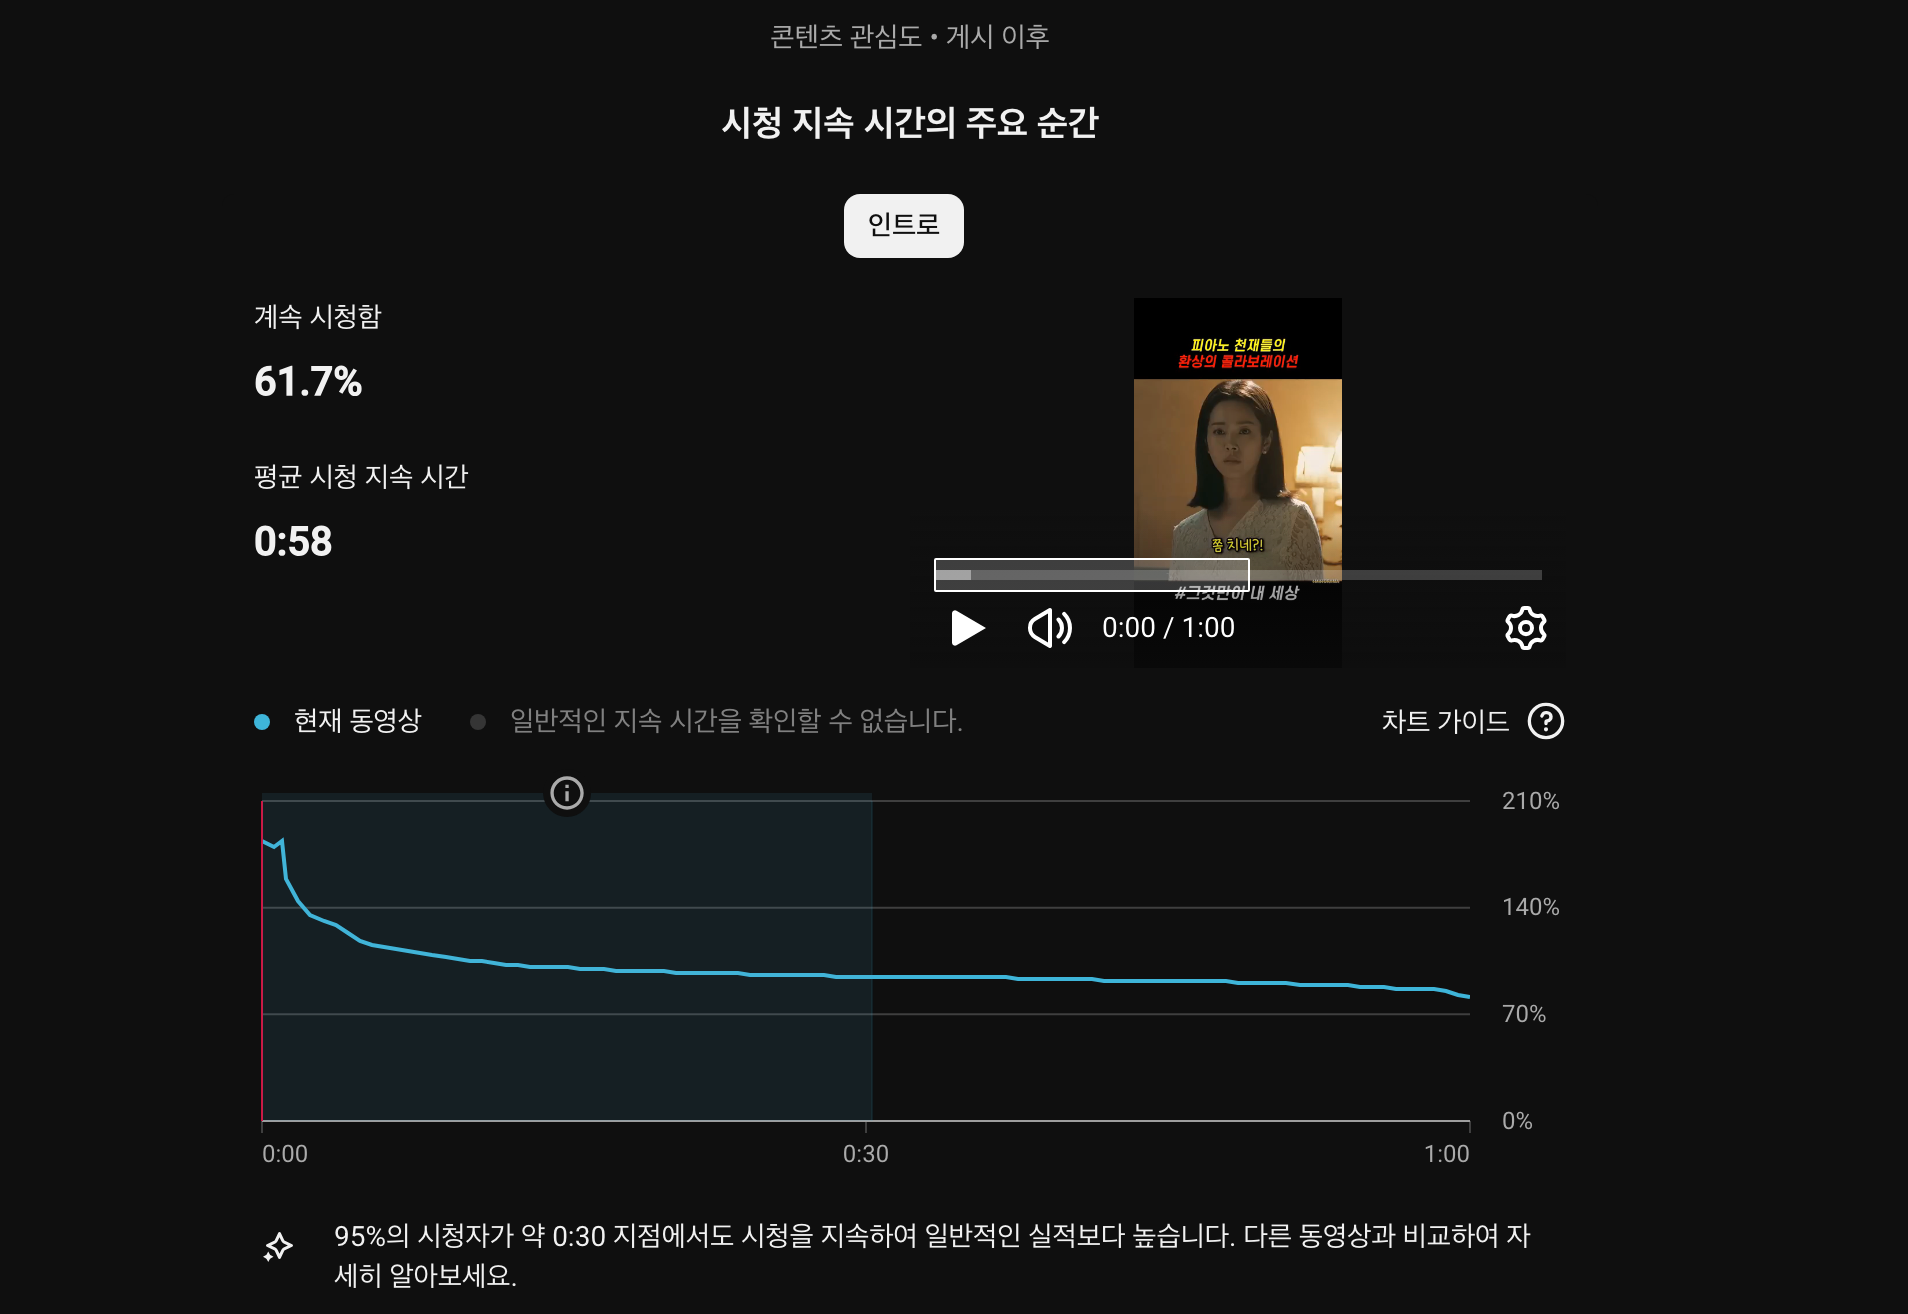
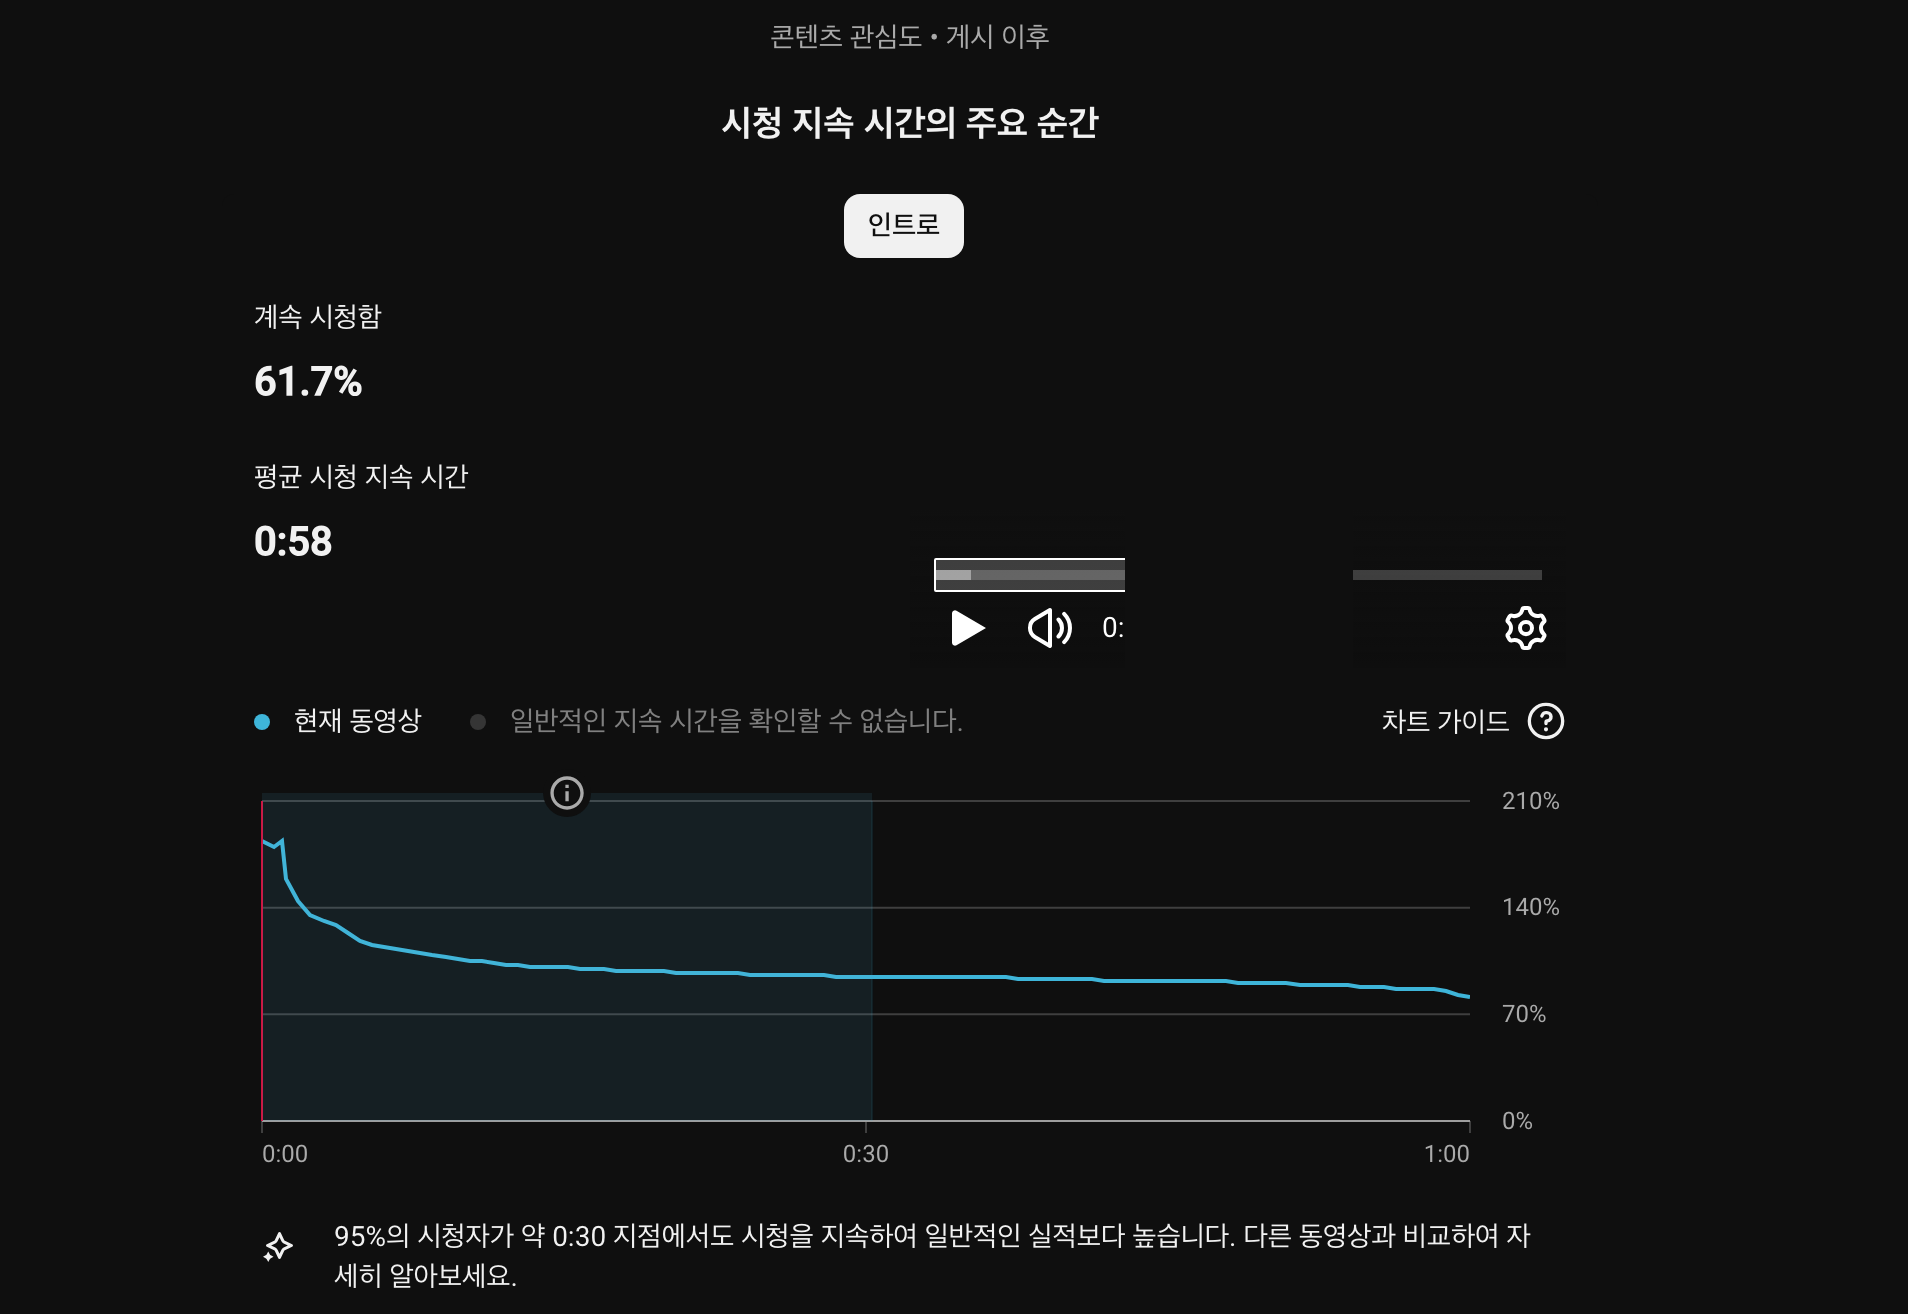
fix(blog): 8/18 글 정정(캡처 가림, 과장·단정 표현 완화), 8/19 글 description 정리

Changed region(s): [[0.5875, 0.2496, 0.7112, 0.4992]]

diff --git a/src/content/blog/2026-08-18-youtube-shorts-avd-swipeaway-analysis.md b/src/content/blog/2026-08-18-youtube-shorts-avd-swipeaway-analysis.md
@@ -8,9 +8,9 @@ category: "case-study"
 
 유튜브 쇼츠를 직접 기획하고 제작하는 크리에이터라면 누구나 한번쯤 풀리지 않는 의문에 부딪힙니다. 며칠 밤을 새워 공들여 만든 영상은 조회수 수천 회에 머무는 반면, 가벼운 마음으로 핵심만 담아 올린 영상은 며칠 만에 수백만 뷰를 돌파하는 기현상입니다. 
 
-유튜브의 알고리즘은 블랙박스처럼 보이지만, 실제로 스튜디오 내부의 시계열 분석 데이터를 뜯어보면 매우 명확한 수학적 규칙과 시청자 행동 패턴로 작동하고 있음을 알 수 있습니다.
+유튜브의 알고리즘은 블랙박스처럼 보이지만, 스튜디오의 시계열 분석 데이터를 열어 보면 시청자 행동에 일정한 패턴이 보입니다.
 
-자체 운영 채널을 운영하며 직접 제작한 수백 편의 숏폼 콘텐츠 중, 누적 조회수 360만 회를 기록한 초대형 흥행 영상, 180만 회의 롱 쇼츠 고성과 영상, 그리고 2.9만 회에서 조기 정체된 비인기 영상의 실제 유튜브 스튜디오 지표를 비교 분석하여 쇼츠 알고리즘의 본질을 밝혀보고자 합니다.
+제가 운영하는 채널의 쇼츠 가운데 누적 조회수 360만 회를 기록한 영상, 180만 회의 1분 쇼츠, 2.9만 회에서 멈춘 영상, 이 세 편의 스튜디오 지표를 나란히 놓고 비교해 보았습니다.
 
 ## 쇼츠 피드 알고리즘의 2대 절대 평가 지표
 
@@ -27,11 +27,11 @@ category: "case-study"
 
 ## 사례 1: 360만 뷰 영상의 73.7% 피드 유지율과 루프 시청 구조
 
-첫 번째 사례는 자체 운영 채널에서 누적 조회수 360만 회(3,604,536회)를 달성한 대표적인 메가 바이럴 영상의 실제 스튜디오 데이터입니다.
+첫 번째 사례는 자체 운영 채널에서 누적 조회수 360만 회(3,604,536회)를 달성한 영상의 스튜디오 데이터입니다.
 
 ![360만 뷰 쇼츠의 유튜브 스튜디오 누적 조회수 및 통계 스크린샷](../../assets/blog/SCR-20260824-1_1.png)
 
-위 스튜디오 대시보드를 살펴보면, 영상이 게시된 직후부터 약 10일간 가파른 수직 상승 곡선을 그리며 초기 250만 뷰를 돌파한 뒤 360만 뷰까지 지속적으로 확산되었습니다. 이 영상이 이토록 거대한 추천 풀을 점유할 수 있었던 이유는 세부 시청 지속 시간 곡선에서 명확히 드러납니다.
+위 스튜디오 대시보드를 살펴보면, 영상이 게시된 직후부터 약 10일간 가파른 수직 상승 곡선을 그리며 초기 250만 뷰를 돌파한 뒤 360만 뷰까지 지속적으로 확산되었습니다. 세부 시청 지속 시간 곡선을 보면 이 영상의 특징이 보입니다.
 
 ![360만 뷰 쇼츠의 시청 지속 시간 및 73.7% 유지율 스크린샷](../../assets/blog/SCR-20260824-1_2.png)
 
@@ -42,17 +42,17 @@ category: "case-study"
 - 평균 시청 지속 시간 (AVD): 0:43 (완주율 100%)
 - 시청 지속 시간 곡선 시작점: 170% (초반 루프 및 다회 시청)
 
-0초 도입부에서 시청 그래프가 170%를 상회한다는 것은, 영상을 접한 시청자들이 첫 장면의 강렬한 복선과 반전 구조로 인해 영상을 처음부터 끝까지 본 후 다시 한번 재생하여 시청했음을 의미합니다. 
+0초 도입부에서 시청 그래프가 170%를 상회한다는 것은, 영상을 처음부터 끝까지 본 뒤 다시 재생해 본 시청이 많았다는 뜻으로 읽힙니다. 
 
 더욱 주목할 점은 43초라는 긴 러닝타임 내내 시청 유지율이 80% 밑으로 떨어지지 않았다는 사실입니다. 70% 이상의 피드 유지율과 100%에 달하는 AVD가 결합되면, 이런 영상은 추천 범위가 크게 확장되는 것으로 보입니다(저자의 해석입니다).
 
 ## 사례 2: 180만 뷰 1분 롱 쇼츠의 구간별 방어력
 
-두 번째 사례는 쇼츠의 최대 길이인 1분(60초) 풀타임으로 제작되었음에도 180만 회(1,800,464회)의 높은 조회수를 기록한 드라마 요약 영상입니다.
+두 번째 사례는 쇼츠의 최대 길이인 1분(60초) 풀타임으로 제작되었음에도 180만 회(1,800,464회)의 높은 조회수를 기록한 영상입니다.
 
 ![180만 뷰 쇼츠의 유튜브 스튜디오 통계 스크린샷](../../assets/blog/SCR-20260824-2_1.png)
 
-쇼츠 생태계에서 60초 풀 영상을 끝까지 시청하게 만드는 것은 대단히 어려운 작업입니다. 길이가 길어질수록 중간 이탈 지점이 많아져 AVD가 급격히 떨어지기 때문입니다. 하지만 이 영상의 스튜디오 상세 분석은 롱 쇼츠가 알고리즘을 뚫어내는 정석을 보여줍니다.
+60초 풀 영상을 끝까지 보게 만드는 것은 쉽지 않은 일입니다. 길이가 길어질수록 중간 이탈 지점이 많아져 AVD가 급격히 떨어지기 때문입니다. 그런데 이 영상의 상세 분석에서는 구간별 유지가 높게 나타났습니다.
 
 ![180만 뷰 쇼츠의 60초 구간 시청 지속 시간 스크린샷](../../assets/blog/SCR-20260824-2_2.png)
 
@@ -63,15 +63,15 @@ category: "case-study"
 
 피드 유지율은 61.7%로 첫 번째 사례(73.7%)보다 다소 낮았지만, 일단 시청을 시작한 사용자들의 95%가 30초 이후까지 이탈하지 않고 시청을 지속했습니다. 
 
-유튜브 알고리즘은 단순히 피드 유지율뿐만 아니라 '영상 시청으로 발생한 총 체류 시간'을 가중치로 평가합니다. 10초 영상의 100% 완주보다, 60초 영상의 58초 시청(절대 시간 58초 체류)이 플랫폼 관점에서는 6배 더 가치 있는 트래픽이기 때문에 180만 뷰까지 꾸준히 추천이 이어질 수 있었습니다.
+제 해석으로는 알고리즘이 피드 유지율뿐 아니라 총 체류 시간도 함께 보는 것 같습니다. 10초 영상의 완주보다 60초 영상의 58초 시청이 플랫폼에는 더 긴 시청으로 쌓이고, 이것이 180만 뷰까지 추천이 이어진 이유 중 하나일 거라고 추정합니다(공식 문서에 명시된 기준이 아닌 해석입니다).
 
-## 사례 3: 2.9만 뷰 정체 영상의 역설과 10초 쇼츠의 한계
+## 사례 3: 지표는 좋았는데 2.9만 뷰에서 멈춘 10초 쇼츠
 
-세 번째 사례는 크리에이터들에게 가장 중요한 교훈을 주는 데이터입니다. 조회수 2.9만 회(28,973회)에서 알고리즘 확장이 완전히 멈춰선 영상의 분석입니다.
+세 번째 사례는 조회수 2.9만 회(28,973회)에서 성장이 멈춘 영상입니다.
 
 ![2.9만 뷰 정체 쇼츠의 유튜브 스튜디오 통계 스크린샷](../../assets/blog/SCR-20260824-3_1.png)
 
-위 그래프를 보면 게시 후 초기 3일 동안 2만 뷰 수준까지 빠르게 진입했으나, 이후 그래프가 완벽하게 수평선(플랫라인)을 그리며 성장이 정지했습니다. 놀랍게도 이 영상의 시청 지속 시간 지표를 열어보면 겉보기에는 아무런 문제가 없어 보입니다.
+위 그래프를 보면 게시 후 초기 3일 동안 2만 뷰 수준까지 빠르게 진입했으나, 이후 그래프가 거의 수평선(플랫라인)을 그리며 성장이 멈췄습니다. 그런데 이 영상의 시청 지속 시간 지표를 열어 보면 겉보기에는 문제가 없어 보입니다.
 
 ![2.9만 뷰 쇼츠의 10초 구간 시청 지속 시간 스크린샷](../../assets/blog/SCR-20260824-3_2.png)
 
@@ -81,15 +81,15 @@ category: "case-study"
 
 피드 유지율이 72.5%로 매우 훌륭하고, 10초 영상 대비 AVD가 12초(완주율 120%)에 달했음에도 불구하고 왜 이 영상은 3만 뷰를 넘지 못하고 멈췄을까요?
 
-그 이유는 '절대적인 시청 시간의 부족'에 있습니다. 영상의 길이가 10초에 불과하면 시청자가 1.2회 루프 시청을 하더라도 플랫폼에 머무는 절대 시간은 12초에 그칩니다. 
+제 해석으로는 절대적인 시청 시간이 짧았던 것이 이유입니다. 영상의 길이가 10초에 불과하면 시청자가 1.2회 루프 시청을 하더라도 플랫폼에 머무는 절대 시간은 12초에 그칩니다. 
 
 유튜브의 추천 시스템은 초기 테스트 그룹에서 완주율이 높더라도, 사용자 1인당 확보되는 체류 시간이 극단적으로 짧은 초단편 영상에 대해서는 대규모 피드 확산을 보수적으로 제한하는 것으로 보입니다(추정). 유튜브가 3분 길이의 쇼츠를 허용한 흐름과 맞닿아 있을 수 있다는 것이 저의 추정입니다.
 
 ## 3대 스튜디오 지표 종합 비교 및 알고리즘 판별 모델
 
-자체 운영 채널의 3가지 스튜디오 데이터를 표로 정리하여 대조해 보면 다음과 같은 명확한 상관관계가 도출됩니다.
+세 영상의 스튜디오 데이터를 표로 정리해 대조하면 다음과 같은 경향이 보입니다.
 
-| 분석 항목 | 사례 1 (메가 바이럴) | 사례 2 (고성과 롱쇼츠) | 사례 3 (초기 정체) |
+| 분석 항목 | 사례 1 (360만 뷰) | 사례 2 (180만 뷰, 1분) | 사례 3 (2.9만 뷰) |
 |---|---|---|---|
 | 누적 조회수 | 3,604,536회 | 1,800,464회 | 28,973회 |
 | 영상 러닝타임 | 43초 | 60초 (1:00) | 10초 |
@@ -97,7 +97,7 @@ category: "case-study"
 | 평균 시청 시간(AVD) | 0:43 (100%) | 0:58 (96.6%) | 0:12 (120%) |
 | 1인당 절대 체류 시간 | 43.0초 | 58.0초 | 12.0초 |
 | 구독자 순증 | +199명 | +716명 | +1명 |
-| 알고리즘 판정 결과 | 최상위 대규모 피드 확산 | 지속적 장기 추천 유지 | 초기 테스트 후 추천 종료 |
+| 조회수 흐름 | 초기 약 10일 급상승 | 한 달 넘게 증가 | 초기 3일 이후 정체 |
 
 이 데이터를 바탕으로 유튜브 쇼츠 추천 알고리즘의 3단계 필터링 및 의사결정 구조를 시각화한 마인드맵은 다음과 같습니다.
 
@@ -105,16 +105,16 @@ category: "case-study"
 
 ## 크리에이터를 위한 실전 제작 가이드라인
 
-유튜브 스튜디오 데이터가 증명하듯, 쇼츠 조회수를 높이기 위해서는 감에 의존하는 편집이 아니라 철저히 지표 중심의 구조화된 기획이 선행되어야 합니다.
+이 세 영상의 지표를 보고 제가 정리한 제작 기준입니다. 감에 의존하는 편집보다 지표를 보고 기획하는 쪽이 낫다고 생각합니다.
 
 ### 1. 첫 3초의 스와이프 방어벽 구축
 피드 유지율 60%를 넘지 못하면 아무리 훌륭한 반전이 뒤에 있어도 알고리즘의 1차 관문을 통과할 수 없습니다. 도입부 0~3초에는 상황 설명이나 오프닝 인트로를 전면 배제하고, 시청자가 화면을 넘기지 못하게 만드는 핵심 질문, 극적인 시각 자극, 혹은 결론부의 하이라이트를 전면에 배치하는 것이 효과적입니다.
 
 ### 2. 30초에서 45초 사이의 고밀도 러닝타임 설계
-완주율 지표를 쉽게 얻기 위해 10초 미만의 초단편 영상을 만드는 것은 추천 확산의 한계를 자초하는 일입니다. 시청자가 지루함을 느끼지 않으면서도 플랫폼에 유의미한 체류 시간(30초 이상)을 선물할 수 있는 30~45초 구간의 탄탄한 서사 구조를 만드는 것이 가장 안전하고 강력한 알고리즘 공략법입니다.
+완주율 지표를 쉽게 얻기 위해 10초 미만의 초단편 영상을 만드는 것은 추천 확산의 한계를 자초하는 일입니다. 시청자가 지루함을 느끼지 않으면서도 플랫폼에 유의미한 체류 시간(30초 이상)을 선물할 수 있는 30~45초 구간의 서사 구조를 만드는 것이 제가 쓰는 안전한 선택입니다.
 
 ### 3. 자연스러운 끝과 시작의 루프 연결
-사례 1처럼 시청 지속 시간 곡선이 100%를 초과하여 시작하게 만들려면, 영상의 마지막 문장과 첫 문장이 매끄럽게 이어지는 이른바 '무한 루프 구조'를 기획해야 합니다. 시청자가 영상이 끝났음을 인지하지 못하고 자연스럽게 1~2초를 더 보게 만드는 디테일이 AVD를 10% 이상 끌어올리는 핵심 비결입니다.
+사례 1처럼 시청 지속 시간 곡선이 100%를 초과하여 시작하게 만들려면, 영상의 마지막 문장과 첫 문장이 매끄럽게 이어지는 이른바 '무한 루프 구조'를 기획해야 합니다. 시청자가 영상이 끝났음을 인지하지 못하고 자연스럽게 1~2초를 더 보게 만드는 디테일이 AVD를 끌어올린다고 생각합니다.
 
-알고리즘은 크리에이터를 괴롭히기 위한 장치가 아니라 시청자가 좋아하는 영상을 찾아주려는 시스템이라고 저는 이해합니다. 채널 스튜디오의 시청 유지율 곡선을 매주 꼼꼼히 점검하고, 데이터가 가리키는 이탈 지점을 하나씩 보완해 나가는 것이 지속 가능한 성장을 만드는 유일한 지름길입니다.
+알고리즘은 크리에이터를 괴롭히기 위한 장치가 아니라 시청자가 좋아하는 영상을 찾아주려는 시스템이라고 저는 이해합니다. 채널 스튜디오의 시청 유지율 곡선을 매주 꼼꼼히 점검하고, 데이터가 가리키는 이탈 지점을 하나씩 보완해 나가는 것이 지속 가능한 성장에 도움이 된다고 생각합니다.
 

diff --git a/src/content/blog/2026-08-19-shorts-opening-hook-strategy.md b/src/content/blog/2026-08-19-shorts-opening-hook-strategy.md
@@ -1,6 +1,6 @@
 ---
 title: "유튜브 쇼츠 3초 훅과 시청 지속 시간(리텐션) 높이기: 초반 이탈 방어율 71% 실전 공식"
-description: "유튜브 쇼츠 3초 훅 설계법과 시청 지속 시간(리텐션) 극대화 전략을 다룹니다. 76만 뷰 쇼츠의 스튜디오 데이터를 바탕으로 0.5초 시각적 반전, 무한 루프 구조, 계속 시청 비율 71%를 달성한 공식을 공개합니다."
+description: "쇼츠 오프닝 3초 훅을 어떻게 설계했는지 정리했습니다. 76.8만 뷰 쇼츠 한 편의 스튜디오 데이터로 계속 시청 비율 71.2%와 시청 지속 시간 곡선을 살펴보고, 제가 쓰는 오프닝 규칙 4가지를 소개합니다."
 category: "case-study"
 pubDate: "2026-08-19T21:00:00+09:00"
 heroImage: "../../assets/shorts_opening_hook_1786875110012.jpg"
